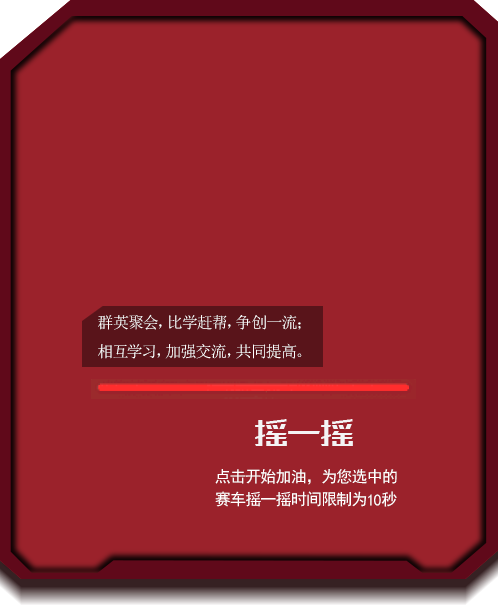
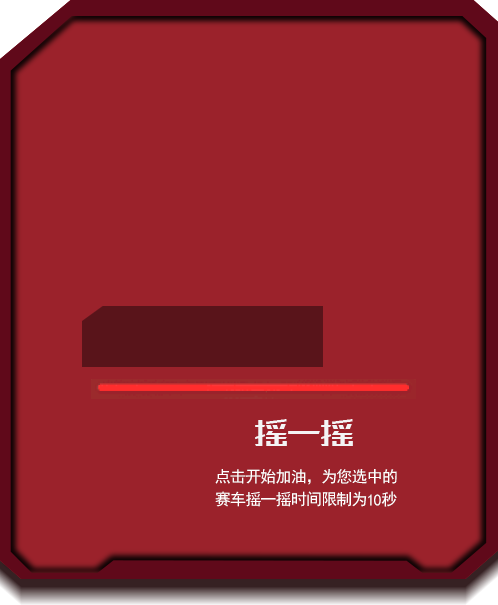
add ajax data

Changed region(s): [[0.1807, 0.5058, 0.6024, 0.595]]

diff --git a/js/main.js b/js/main.js
@@ -123,6 +123,18 @@ $(function(){
 			},
 			onSlideChangeStart: function(e) {
 				$('.page').find('.animate').hide();
+				if(e.activeIndex === 3){
+					works_vote.setWorksList();
+				}
+				if(e.activeIndex === 4){
+					works_vote.setLeaderBoard();
+				}
+				if(e.activeIndex === 5){
+					works_vote.setWorksNode();
+				}
+				if(e.activeIndex === 6){
+					works_vote.setVote();
+				}
 			},
 			onSlideChangeEnd: function(e) {
 				$('.row-rule').hide();
@@ -141,9 +153,7 @@ $(function(){
 				if(e.activeIndex === 2 || e.activeIndex === 3 || e.activeIndex === 4 || e.activeIndex === 5 || e.activeIndex === 6){
 					$("#musicBox")[0].play();
 				}
-				if(e.activeIndex === 5){
-					works_vote.setWorksNode();
-				}
+				
 				startShake(e.activeIndex);
 				
 				$('.page').eq(curPage).find('.scroll-container').each(function(){
@@ -211,7 +221,11 @@ $(function(){
 	});
 	$('.btn-back-choose').on('click',function(){
 		myPageSwiper.unlockSwipeToNext();
-		myPageSwiper.slideTo(3);
+		if(myPageSwiper.previousIndex===4){
+			myPageSwiper.slideTo(4);
+		}else{
+			myPageSwiper.slideTo(3);
+		}
 	});
 	$('.btn-start-shake').on('click',function(){
 		myPageSwiper.unlockSwipeToNext();
@@ -267,7 +281,17 @@ $(function(){
 			last_z = z;
 		}
 	}
+	$('.status-1').on('click',function(){
+		if(!shake_bl){
+			shake_bl = true;
+			$('.status-1').hide();
+			$('.status-2').show();
+			countNumber(10);
+		}
+	});
+
 	function countNumber(num){
+		$('.status-2 .number').text(num);
 		setTimeout(function(){
 			$('.status-2 .number').text(--num);
 			if(num>0){
@@ -277,32 +301,56 @@ $(function(){
 			}
 		},1000)
 	}
+	var pop = {
+		wrap: $('<div class="pop-alert"><div class="text"></div></div>'),
+		show: function(text){
+			this.wrap.show().find('.text').text(text);
+		},
+		alert: function(text){
+			this.wrap.fadeIn(500).delay(1000).fadeOut(500).find('.text').text(text);
+		},
+		hide: function(){
+			this.wrap.hide().find('.text').text('');
+		}
+	}
+	pop.wrap.appendTo('body');
 	/* data */
 	var ajaxUrl = 'http://hide.dzhcn.cn/honda/callback.php',
 		boardType = 'Leaderboard1',
 		voteType = "Vote",
+		oilType = "Oil",
 		groupNames = ['personal','company'];
 
 	function voteFn(shake_num){
+		var shake_num = shake_num ? shake_num : 1;
 		var vote_num = shake_num*6 >200 ? 200 : shake_num*6;
-		$('.status').hide();
-		$('.status-3 .number').text(vote_num);
-		$('.status-3').show();
-		$('.shake-vote').removeClass('roll-animate');
-		console.log(select_group)
+		var node = select_group.node;
 		$.ajax({
 			url: ajaxUrl,
 			type: "post",
-			data: {type: voteType,worksID:"",votes:vote_num,worksType:select_group.group},
+			data: {type: voteType,openid:'a',worksID:node.id,votes:vote_num,worksType:select_group.group},
 			dataType: "json",
 			error: function(request){
 				console.log(request);
 			},
 			success: function(data){
-				
+				if(data.status === 1){
+					$('.status-3 .number').text(vote_num);
+				}else if(data.status === 2){
+					$('.status-3 .number').text(0);
+					pop.alert('当天已对投过作品');
+				}else if(data.status === 3){
+					$('.status-3 .number').text(0);
+					pop.alert('所投作品id与作品所属类');
+				}else if(data.status === 0){
+					$('.status-3 .number').text(0);
+					pop.alert('投票失败');
+				}
+				$('.shake-vote').removeClass('roll-animate');
+				$('.status').hide();
+				$('.status-3').show();
 			}
 		});
-
 	}
 
 	function selectGroup(){
@@ -314,8 +362,6 @@ $(function(){
 			$(item).on('click',function(){
 				self.group = index+1;
 				self.name = groupNames[index];
-				works_vote.setWorksList();
-				works_vote.setLeaderBoard();
 			});
 		})
 	}
@@ -343,8 +389,8 @@ $(function(){
 						var list_data = data[select_group.name];
 						self.boardWrap.empty();
 						$(list_data).each(function(index,item){
-							var list_node = _.find(self.list, function(node){ return node.id == item.id; });
-							var li = $('<li><div class="item rank">'+item.rowno+'</div><div class="item item-right"><div class="img-wrap"><div class="img-cover"></div><div class="img"><img src='+list_node.img+' /></div></div><div class="text"><div class="name">名称:'+item.Name+'</div><div class="dis">加油量:'+item.vote+'ml</div></div></div></li>');
+							var list_node = _.find(self.list, function(node){ return node.id == Number(item.id); });
+							var li = $('<li><div class="item rank">'+item.rowno+'</div><div class="item item-right"><div class="img-wrap"><div class="img-cover"></div><div class="img"><img src='+list_node.img+' /></div></div><div class="text"><div class="name">名称: '+item.Name+'</div><div class="dis">加油量: '+item.vote+'ml</div></div></div></li>');
 							li.on('click',function(){
 								select_group.node = list_node;
 								myPageSwiper.unlockSwipeToNext();
@@ -361,26 +407,46 @@ $(function(){
 		setWorksList: function(){
 			var self = this;
 			self.listWraps.empty();
-			var ind = 0;
-			$(this.list).each(function(index,item){
-				if(item.group === select_group.group){
-					var li = $('<li><div class="number">编号:'+(index+1)+'</div><div class="img-wrap"><div class="img-cover"></div><div class="img"><img src="'+item.img+'" /></div></div><div class="name">名称:'+item.name+'</div><div class="dis">加油量:'+item.voteNum+'</div></li>');
-					li.on('click',function(){
-						select_group.node = item;
-						console.log(select_group)
-						myPageSwiper.unlockSwipeToNext();
-						myPageSwiper.slideTo(5);
-					});
-					li.appendTo(self.listWraps.eq(ind++%2));
+			$.ajax({
+				url: ajaxUrl,
+				type: "post",
+				data: {type: oilType},
+				dataType: "json",
+				error: function(request){
+					console.log(request);
+				},
+				success: function(data){
+					if(data.status === 1){
+						var oilArr = _.union(data.company,data.personal);
+						var ind = 0;
+						$(self.list).each(function(index,item){
+							item.vote = _.find(oilArr, function(node){ return Number(node.id) == item.id; }).vote;
+							if(item.group === select_group.group){
+								var li = $('<li><div class="number">编号:'+(index+1)+'</div><div class="img-wrap"><div class="img-cover"></div><div class="img"><img src="'+item.img+'" /></div></div><div class="name">名称: '+item.name+'</div><div class="dis">加油量: '+item.vote+'ml</div></li>');
+								li.on('click',function(){
+									select_group.node = item;
+									myPageSwiper.unlockSwipeToNext();
+									myPageSwiper.slideTo(5);
+								});
+								li.appendTo(self.listWraps.eq(ind++%2));
+							}
+						});
+						self.setWorksNode();
+					}
 				}
-			})
+			});
 		},
 		setWorksNode: function(){
 			var node = select_group.node;
-			console.log(node)
 			$('.works-node .node-img').attr('src',node.img);
 			$('.works-node .node-id').text(node.id);
+			$('.works-node .node-dis').text(node.des);
 			$('.works-node .node-vote').text(node.vote);
+		},
+		setVote: function(){
+			shake_bl = false;
+			$('.status').hide();
+			$('.status-1').show();
 		}
 	}
 	var works_vote = new worksVote(window.worksList);

diff --git a/js/data.js b/js/data.js
@@ -1,34 +1,14 @@
-window.worksList = [
-	{id:1, name:"a1", des: "这是一个Honda的季节", img:"images/works_1.jpg", group:1},
-	{id:2, name:"a2", des: "这是一个Honda的季节", img:"images/works_1.jpg", group:2},
-	{id:3, name:"a3", des: "这是一个Honda的季节", img:"images/works_1.jpg", group:1},
-	{id:4, name:"a4", des: "这是一个Honda的季节", img:"images/works_1.jpg", group:2},
-	{id:5, name:"a5", des: "这是一个Honda的季节", img:"images/works_1.jpg", group:1},
-	{id:6, name:"a6", des: "这是一个Honda的季节", img:"images/works_1.jpg", group:2},
-	{id:7, name:"a7", des: "这是一个Honda的季节", img:"images/works_1.jpg", group:1},
-	{id:8, name:"a8", des: "这是一个Honda的季节", img:"images/works_1.jpg", group:2},
-	{id:9, name:"a9", des: "这是一个Honda的季节", img:"images/works_1.jpg", group:1},
-	{id:10, name:"a10", des: "这是一个Honda的季节", img:"images/works_1.jpg", group:2},
-	{id:11, name:"a11", des: "这是一个Honda的季节", img:"images/works_1.jpg", group:1},
-	{id:12, name:"a12", des: "这是一个Honda的季节", img:"images/works_1.jpg", group:2},
-	{id:13, name:"a13", des: "这是一个Honda的季节", img:"images/works_1.jpg", group:1},
-	{id:14, name:"a14", des: "这是一个Honda的季节", img:"images/works_1.jpg", group:2},
-	{id:15, name:"a15", des: "这是一个Honda的季节", img:"images/works_1.jpg", group:1},
-	{id:16, name:"a16", des: "这是一个Honda的季节", img:"images/works_1.jpg", group:2},
-	{id:17, name:"a17", des: "这是一个Honda的季节", img:"images/works_1.jpg", group:1},
-	{id:18, name:"a18", des: "这是一个Honda的季节", img:"images/works_1.jpg", group:2},
-	{id:19, name:"a19", des: "这是一个Honda的季节", img:"images/works_1.jpg", group:1},
-	{id:20, name:"a20", des: "这是一个Honda的季节", img:"images/works_1.jpg", group:2},
-	{id:21, name:"a21", des: "这是一个Honda的季节", img:"images/works_1.jpg", group:1},
-	{id:22, name:"a22", des: "这是一个Honda的季节", img:"images/works_1.jpg", group:2},
-	{id:23, name:"a23", des: "这是一个Honda的季节", img:"images/works_1.jpg", group:1},
-	{id:24, name:"a24", des: "这是一个Honda的季节", img:"images/works_1.jpg", group:2},
-	{id:25, name:"a25", des: "这是一个Honda的季节", img:"images/works_1.jpg", group:1},
-	{id:26, name:"a26", des: "这是一个Honda的季节", img:"images/works_1.jpg", group:2},
-	{id:27, name:"a27", des: "这是一个Honda的季节", img:"images/works_1.jpg", group:1},
-	{id:28, name:"a28", des: "这是一个Honda的季节", img:"images/works_1.jpg", group:2},
-	{id:29, name:"a29", des: "这是一个Honda的季节", img:"images/works_1.jpg", group:1},
-	{id:30, name:"a30", des: "这是一个Honda的季节", img:"images/works_1.jpg", group:2},
-	{id:31, name:"a31", des: "这是一个Honda的季节", img:"images/works_1.jpg", group:1},
-	{id:32, name:"a32", des: "这是一个Honda的季节", img:"images/works_1.jpg", group:2}
-]
+window.worksList = new Array(153); //{id:1, name:"a1", des: "这是一个Honda的季节", img:"images/works_1.jpg", group:1},
+
+$(window.worksList).each(function(index,item){
+	var group = (index+1)<83 ? 1: 2;
+	var name = (index+1)<83 ? 'a'+(index+1): 'b'+(index+1);
+	var img = 'images/works_'+(index+1)+'.jpg';
+	window.worksList[index] = {
+		id: (index+1),
+		name: name,
+		des: '这是一个Honda的季节',
+		img: 'images/works_1.jpg',
+		group: group
+	}
+});

diff --git a/css/main.css b/css/main.css
@@ -33,7 +33,7 @@ body{ position: relative; text-align: left; background-color: #780c17; font-fami
 .scroll-container{ width: 100%; height: 100%; margin: 0 auto; position: relative; overflow: hidden; z-index: 1;}
 .swiper-slide {}
 .scroll-container .swiper-slide { height: auto; -webkit-box-sizing: border-box; box-sizing: border-box;}
-.scroll-wrap{ display: flex; height: 8.578125rem; width: 6.53125rem; position: absolute; left: 0.546875rem; top: 2.890625rem;}
+.scroll-wrap{ display: flex; height: 8.99rem; width: 6.53125rem; position: absolute; left: 0.546875rem; top: 2.890625rem;}
 .scroll-wrap .scroll-container{ flex: 1;}
 .scroll-wrap .scroll-container .swiper-slide{ background-color: transparent;}
 .scroll-container.swiper-container-vertical>.swiper-scrollbar{ width: 0.28125rem; right: 0; height: 100%; top: 0;}
@@ -67,6 +67,9 @@ transform: scaleX(1) skew(-15deg);}
 .lights .light{ float: left; display: none;}
 .rule-light-1 .lights{ }
 .rule-light-1 .lights .light{ width: 0.171875rem; height: 0.15625rem; background: url(../images/icon_light_1.png) no-repeat left top; background-size: 100%; margin-left: -0.015625rem;}
+
+.pop-alert{ position: absolute; width: 5rem; height: 1rem; left: 50%; top: 50%; margin-top: -0.6rem; margin-left: -2.7rem; font-size: 0.3rem; line-height: 150%; padding: .2rem; background: rgba(0,0,0,0.75); color: #fff; z-index: 999; border-radius: 0.1rem; display: none;}
+.pop-alert .text{ display: flex; justify-content: center; align-items:center; width: 100%; height: 100%;}
 
 
 /*page1*/
@@ -144,7 +147,7 @@ transform: scaleX(1) skew(-15deg);}
 .pd-list .img-wrap{ position: relative; height: 1.96875rem; width: 100%;}
 .pd-list .img-wrap .img{ height: 100%; width: 100%; overflow: hidden;}
 .pd-list .img-wrap .img img{ height: 100%; width: auto; margin-left: -0.2109375rem;}
-.pd-list li .number{ background:rgba(240,11,11,0.6); width: 1.046875rem; height: 0.484375rem; position: absolute; left: 0; top: 0; z-index: 9; color: #fff; font-size: 0.3rem; line-height: 0.484375rem; text-align: center;}
+.pd-list li .number{ background:rgba(240,11,11,0.6); width: 1.146875rem; height: 0.484375rem; position: absolute; left: 0; top: 0; z-index: 9; color: #fff; font-size: 0.3rem; line-height: 0.484375rem; text-align: center;}
 .pd-list li .img-cover{ background-image: url(../images/img_cover.png); background-repeat: no-repeat; background-size: 100%; width: 100%; height: 100%; position: absolute; left: 0; top: 0; background-position: left top;}
 .pd-list li .name{ color: #fff; font-size: 0.3rem; line-height: 120%; padding-top: 0.05rem;}
 .pd-list li .dis{ color: #fff; font-size: 0.3rem; line-height: 120%;}
@@ -173,6 +176,8 @@ transform: scaleX(1) skew(-15deg);}
 /*page6*/
 .page6 .row-level-7{ left: 1.109375rem; top: 3.34375rem; width: 7.78125rem;}
 .page6 .pd-img{ position: absolute; left: 0; top: 0; width: 100%;}
+.page6 .dis{ position: absolute; left: 1.45rem; top: 4.85rem; width: 3.6rem; color: #fff; font-size: .233rem; line-height: 180%;}
+.page6 .dis span{ display: flex; justify-content: center; align-items:center; width: 100%; height: 0.8125rem;}
 .page6 .number{ position: absolute; left: 5.15625rem; top: 4.78125rem; color: #fff; font-size: 0.4rem; line-height: 140%;}
 .page6 .vote{ position: absolute; left: 5.15625rem; top: 5.3125rem; color: #fff; font-size: 0.3rem; line-height: 140%;}
 .icon-shake{ position: absolute; left: 1.546875rem; top: 6.25rem; width: 1.546875rem; height: 2.125rem;}

diff --git a/index.html b/index.html
@@ -418,8 +418,9 @@
 								<div class="img-cover img2-cover"><img src="images/img2_cover.png" /></div>
 								<div class="img"><img class="node-img" src="images/works_1.jpg" /></div>
 							</div>
-							<div class="number">编号:<span class="node-id">678</span></div>
-							<div class="vote">票数:<span class="node-vote">1999</span>张</div>
+							<div class="dis"><span class="node-dis">群英聚会，比学赶帮，争创一流； 相互学习，加强交流，共同提高。</span></div>
+							<div class="number">编号: <span class="node-id"></span></div>
+							<div class="vote">票数: <span class="node-vote"></span>张</div>
 						</div>
 						<div class="icon-shake roll-animate2">
 							<img src="images/view_item7_2.png" />
